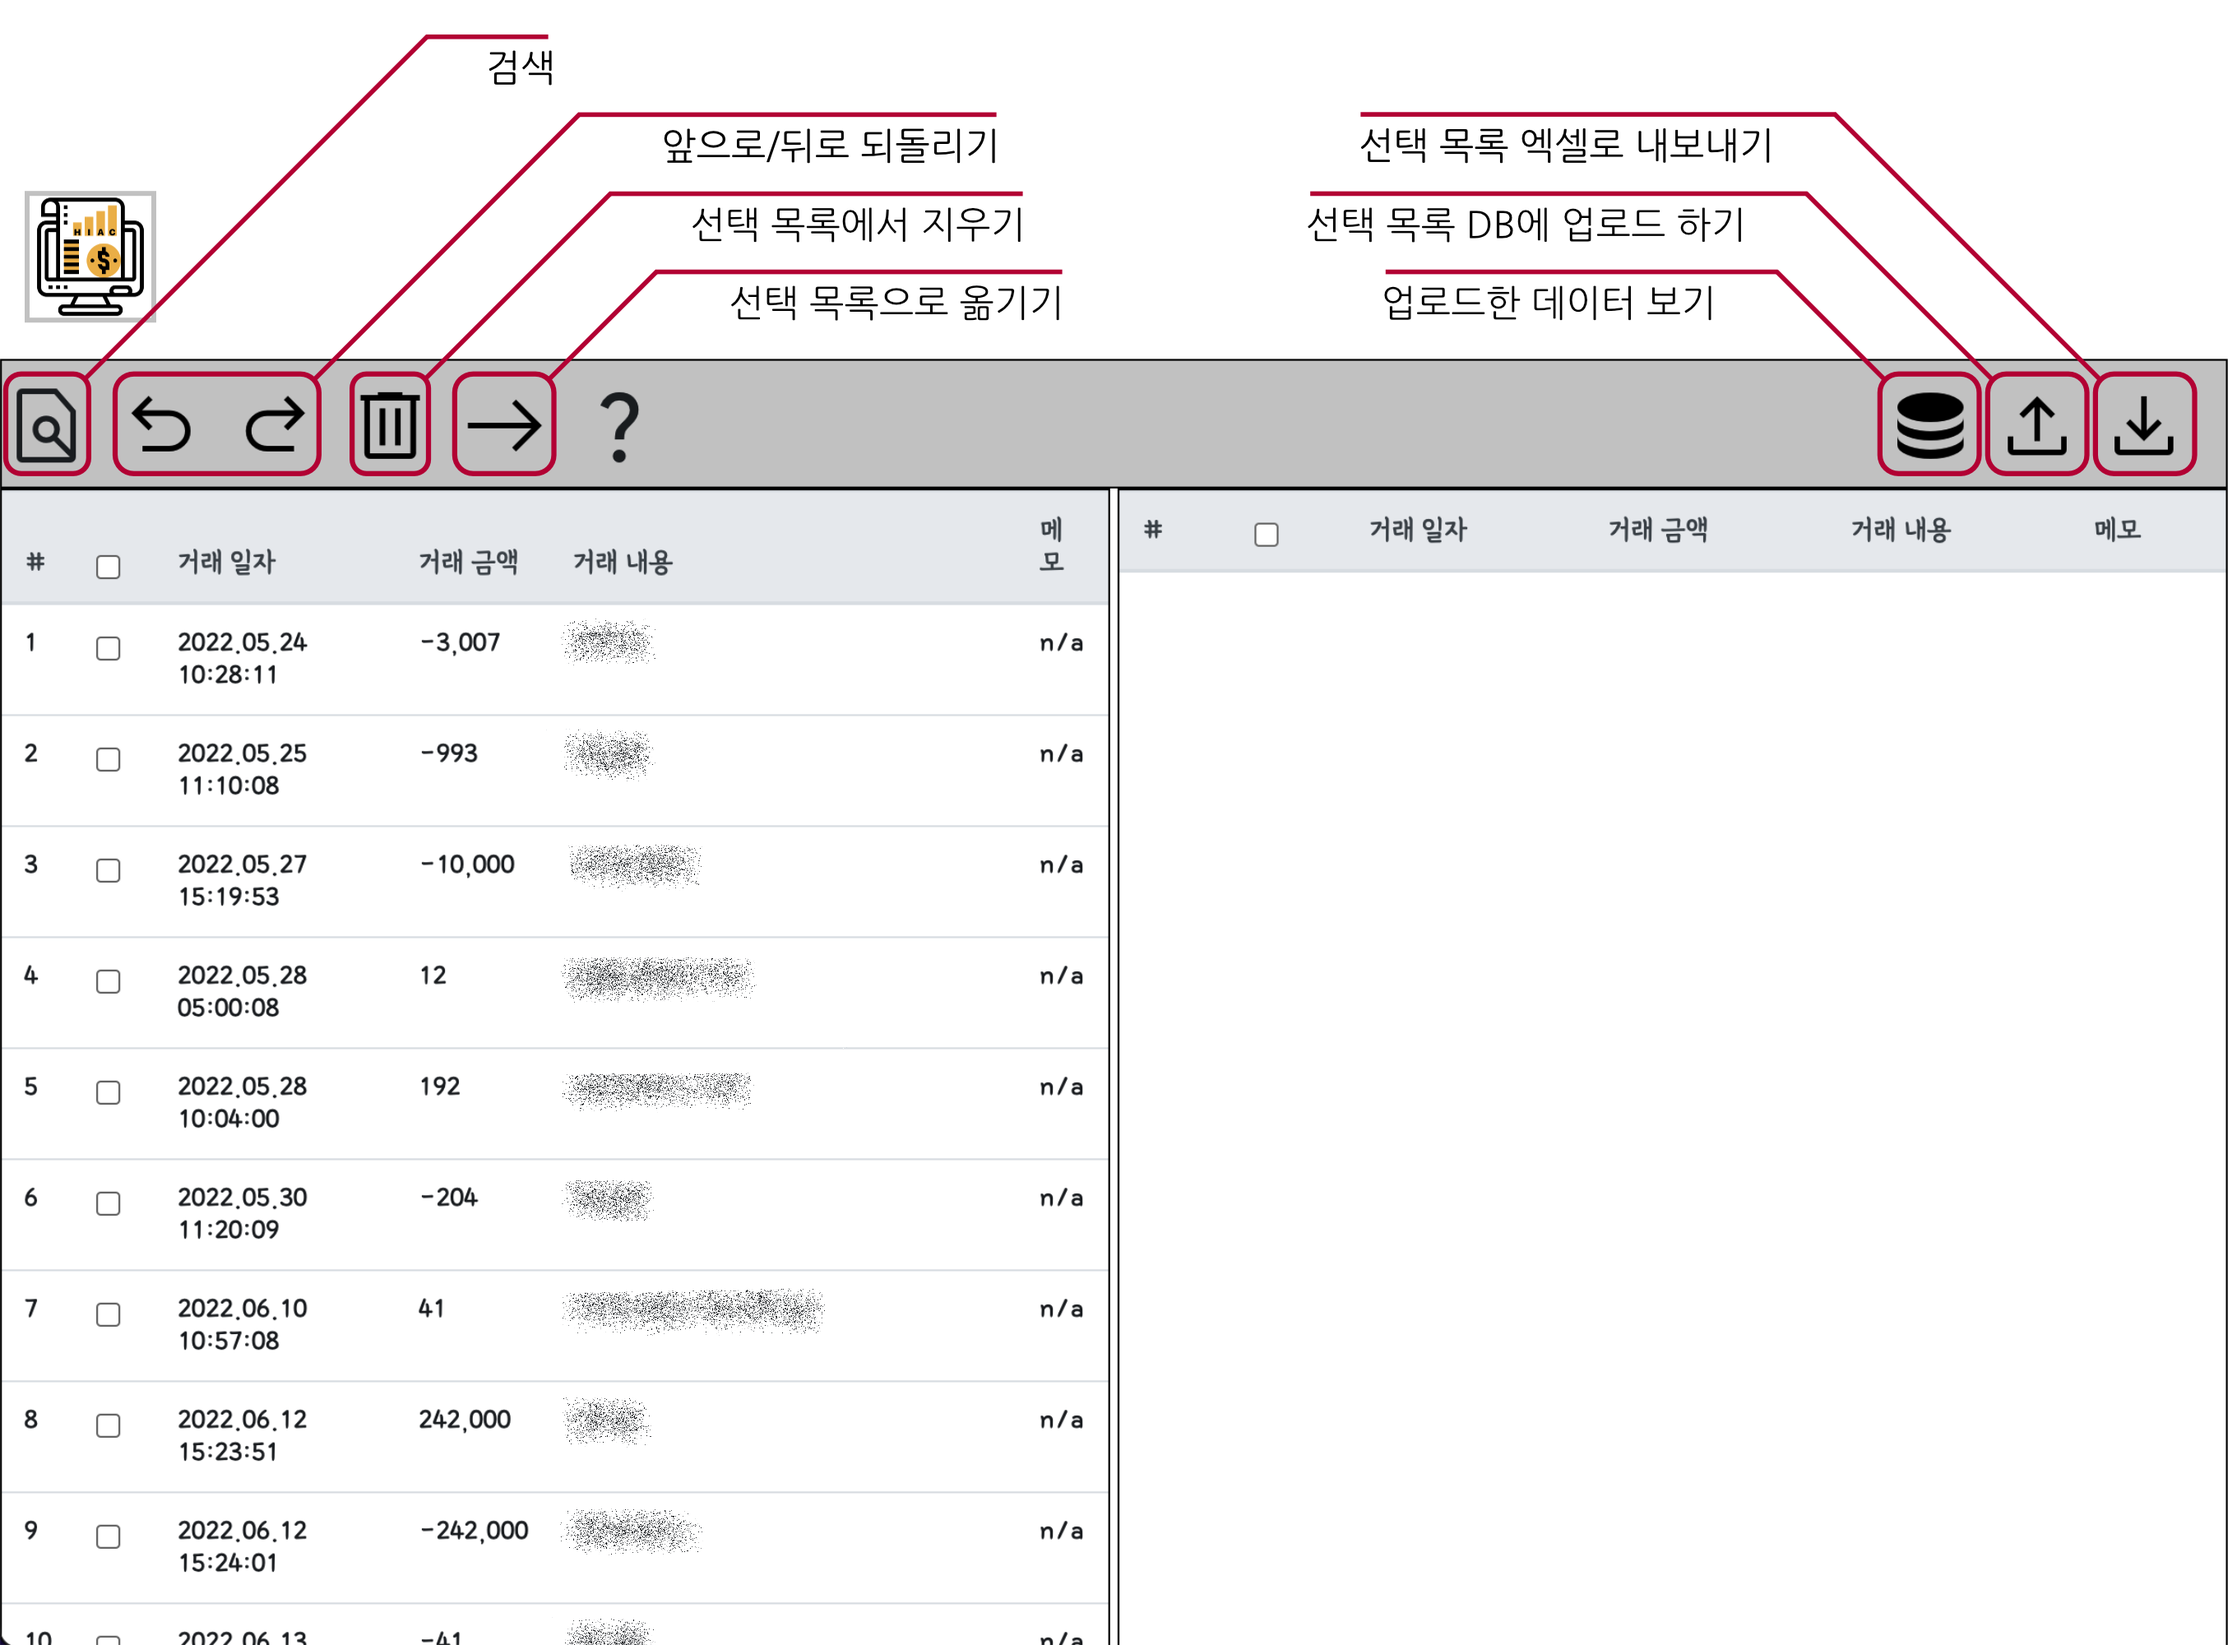
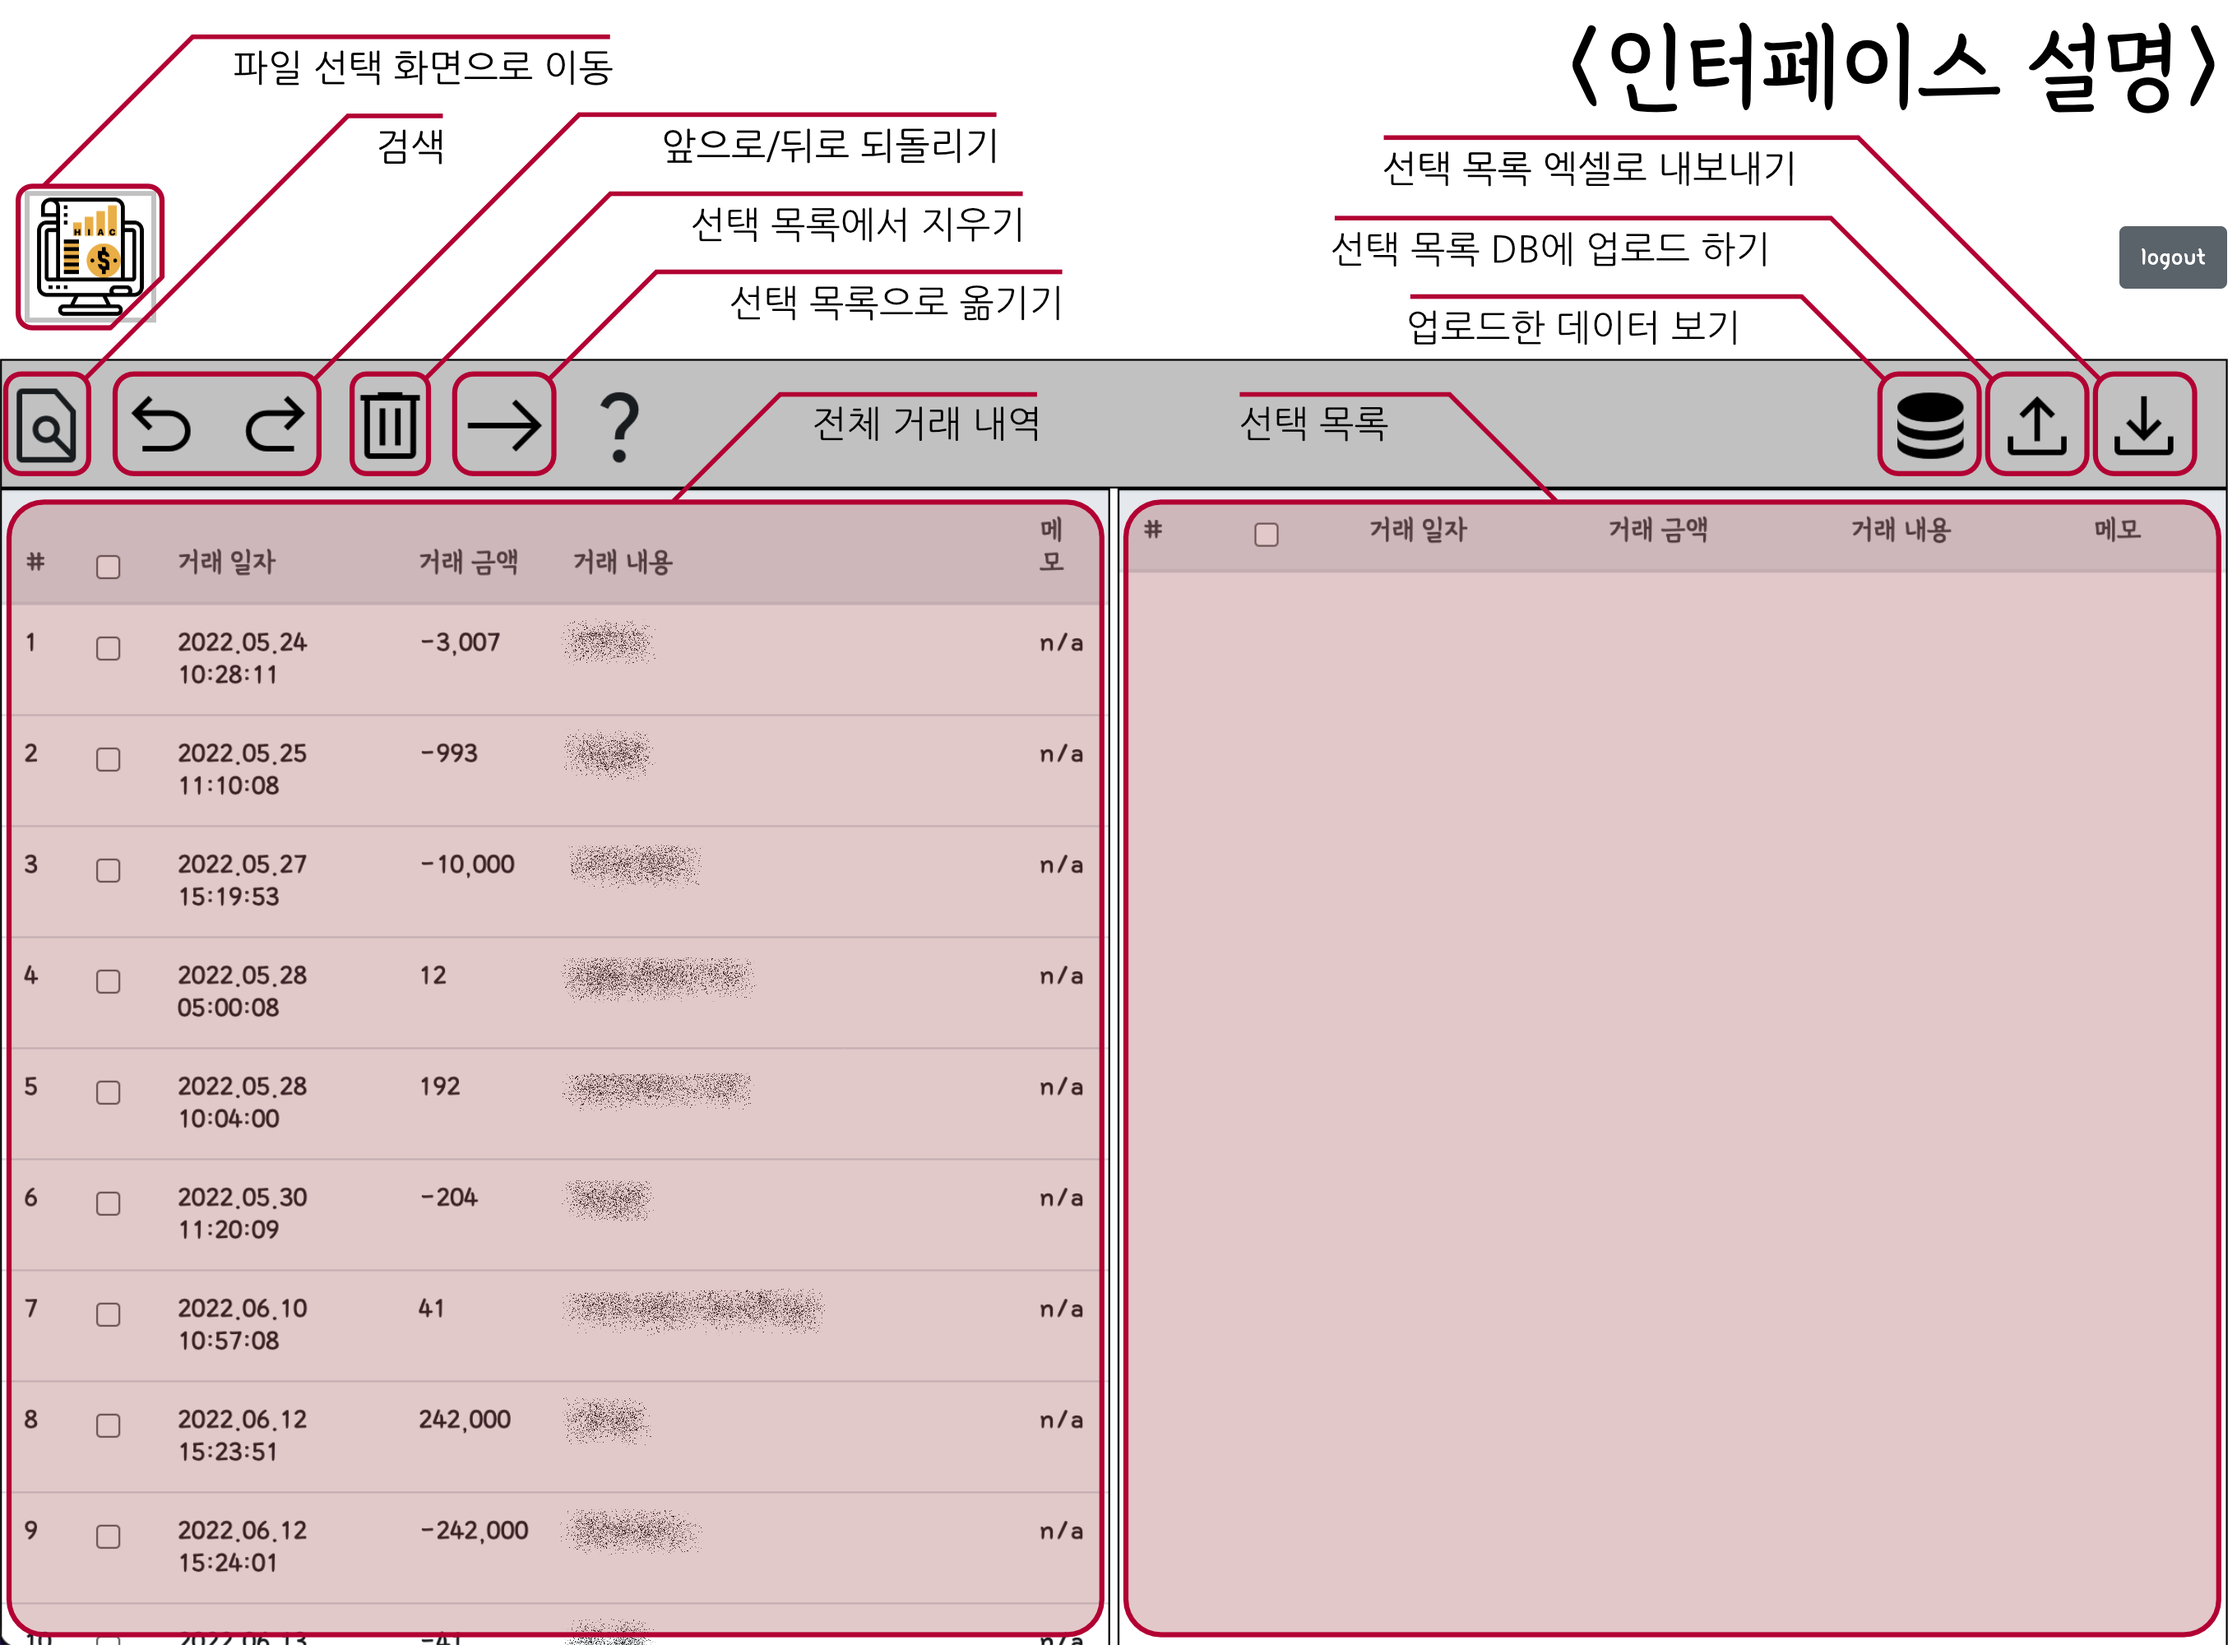
db 버전 기능설명 팝업 창 이미지 수정 및 추가

diff --git a/HIAC/templates/HIAC/account_setting.html b/HIAC/templates/HIAC/account_setting.html
@@ -268,6 +268,8 @@
                     <li data-target="#carouselExampleIndicators" data-slide-to="4" style="background-color: gray;"></li>
                     <li data-target="#carouselExampleIndicators" data-slide-to="5" style="background-color: gray;"></li>
                     <li data-target="#carouselExampleIndicators" data-slide-to="6" style="background-color: gray;"></li>
+                    <li data-target="#carouselExampleIndicators" data-slide-to="7" style="background-color: gray;"></li>
+                    <li data-target="#carouselExampleIndicators" data-slide-to="8" style="background-color: gray;"></li>
                   </ol>
                   <div class="carousel-inner">
                     {% load static %}
@@ -291,6 +293,12 @@
                     </div>
                     <div class="carousel-item">
                       <img src="{% static 'img/info6_db.png' %}" class="d-block w-100" alt="info6">
+                    </div>
+                    <div class="carousel-item">
+                      <img src="{% static 'img/info7_db.png' %}" class="d-block w-100" alt="info7">
+                    </div>
+                    <div class="carousel-item">
+                      <img src="{% static 'img/info8_db.png' %}" class="d-block w-100" alt="info8">
                     </div>
                   </div>
                   <a class="carousel-control-prev" href="#carouselExampleIndicators" role="button" data-slide="prev" style="width: 5%">
